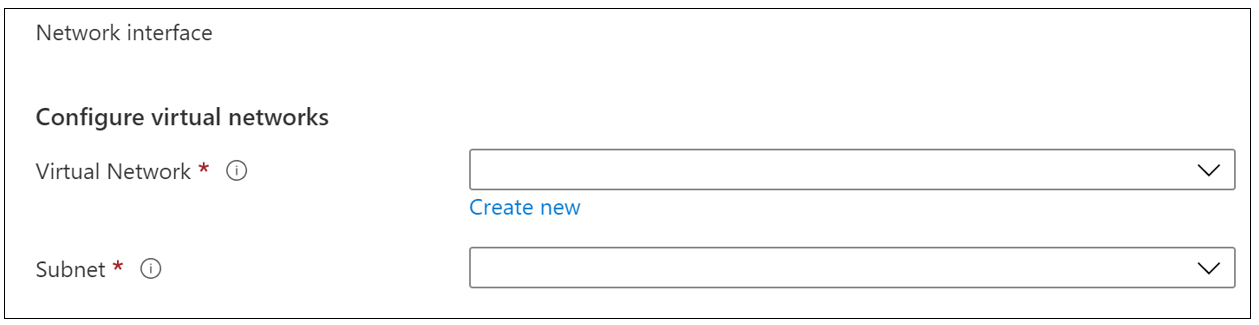
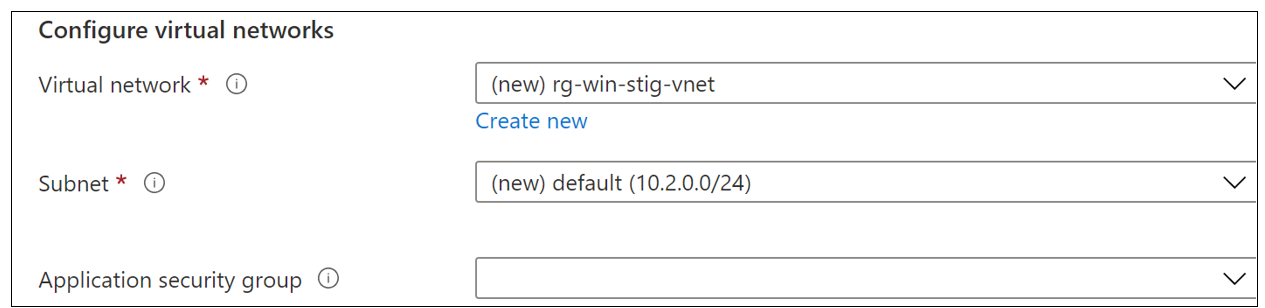
Update images

diff --git a/docs/linux.md b/docs/linux.md
@@ -1,5 +1,7 @@
 # Deploy STIG compliant Linux Virtual Machines
 
+This article shows how to use the Azure portal to deploy a STIG compliant Linux Virtual Machine.
+
 > Prerequisites: Azure Gov account, Storage Account (If desired, must be
 > in the same resource group/region as the VM, required if you plan to
 > store diagnostic log analytics), Log Analytics workspace (required if
@@ -9,7 +11,7 @@
 
 Sign in to the at [Azure Government portal](https://portal.azure.us/).
 
-## Create virtual machine
+## Create a STIG compliant virtual machine
 
 1. Click on Create a resource
 1. Type **Azure STIG Templates for Linux** in the search and then click on **Create**
@@ -59,6 +61,8 @@ Sign in to the at [Azure Government portal](https://portal.azure.us/).
         use, utilizing an existing subnet will generate an error and
         require entering a new subnet)
 
+    c. Application security group (optional)
+
     ![Screenshot of the Network interface section showing where you select the network and subnet for the virtual machine](./media/network-interface.png)
 
 1. Under **Management**
@@ -69,7 +73,9 @@ Sign in to the at [Azure Government portal](https://portal.azure.us/).
     b.  Enter Log Analytics workspace (optional, required to store
         log analytics)
 
-    ![Screenshot of the Management section showing where you select the diagnostic settings for the virtual machine](./media/diagnostic-settings.png)
+    c. Enter Custom data (optional, not applicable to RHEL 7.2)
+
+    ![Screenshot of the Management section showing where you select the diagnostic settings for the virtual machine](./media/linux-diagnostic-settings.png)
 
 1. Select **Review + create** to review summary of all selections
 

diff --git a/docs/windows.md b/docs/windows.md
@@ -1,5 +1,7 @@
 # Deploy STIG compliant Windows Virtual Machines
 
+This article shows how to use the Azure portal to deploy a STIG compliant Windows Virtual Machine.
+
 > Prerequisites: Azure Gov account, Storage Account (If desired, must be
 > in the same resource group/region as the VM, required if you plan to
 > store diagnostic log analytics), Log Analytics workspace (required if
@@ -9,7 +11,7 @@
 
 Sign in to the at [Azure Government portal](https://portal.azure.us/).
 
-## Create virtual machine
+## Create a STIG compliant virtual machine
 
 1. Click on Create a resource
 1. Type **Azure STIG Templates for Windows** in the search and then click on **Create**
@@ -57,6 +59,8 @@ Sign in to the at [Azure Government portal](https://portal.azure.us/).
         use, utilizing an existing subnet will generate an error and
         require entering a new subnet)
 
+    c. Application security group (optional)
+
     ![Screenshot of the Network interface section showing where you select the network and subnet for the virtual machine](./media/network-interface.png)
 
 1. Under **Management**
@@ -67,7 +71,7 @@ Sign in to the at [Azure Government portal](https://portal.azure.us/).
     b.  Enter Log Analytics workspace (optional, required to store
         log analytics)
 
-    ![Screenshot of the Management section showing where you select the diagnostic settings for the virtual machine](./media/diagnostic-settings.png)
+    ![Screenshot of the Management section showing where you select the diagnostic settings for the virtual machine](./media/windows-diagnostic-settings.png)
 
 1. Select **Review + create** to review summary of all selections
 
